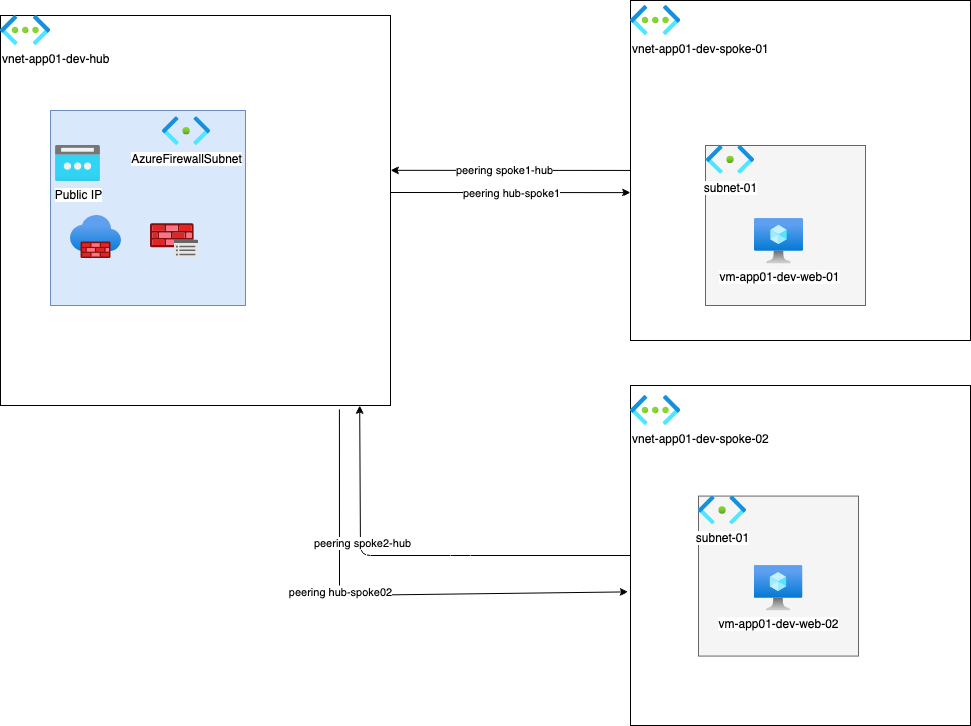
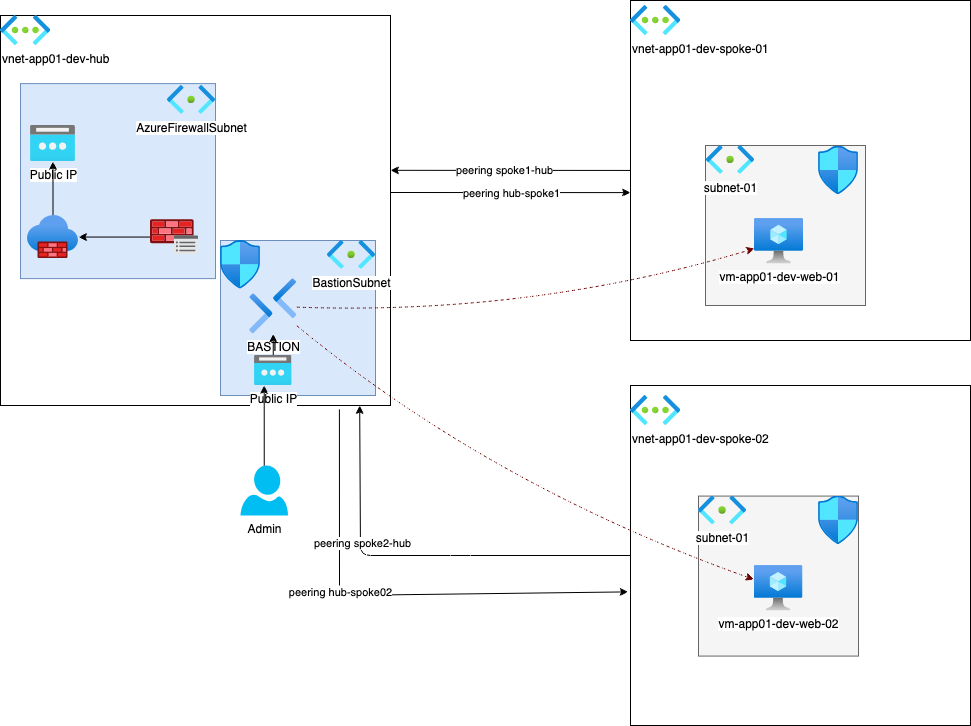
Add NSG and edit  README

diff --git a/README.md b/README.md
@@ -41,7 +41,7 @@ end
 hub <== peering ==>spoke1
 hub <== peering ==>spoke2
 Admin ==>bastion
-Internet==>firewall
+Internet== (Public_IP:8080/8081) ==>firewall
 ```
 
 
@@ -60,6 +60,21 @@ curl http://20.86.28.150:8081
 Hello from 10.2.1.4
 ```
 ![alt text](./images/10214.png)
+
+For administrative purpuse there is Bastion using Entra ID Authentication
+Before this, the user should have been assigned with RBAC proper role:
+
+![alt text](./images/rbac_role.png)
+
+Then
+Microsoft Entra ID authentication type will show up in Bastion connect:
+
+![alt text](./images/bastion.png)
+
+User connected to the VM is the Entra ID user:
+
+![alt text](./images/login.png)
+
 ---
 
 # Features
@@ -84,6 +99,7 @@ Hello from 10.2.1.4
 |___network  => Creates network infrastructure
 |___firewall => Creates Azure firewall
 |___routing  => Create user defined route and subnet associations
+|___bsg      => Create Network Security Groups for subnets
 |__main.tf
 |__outputs.tf
 |__versions.tf
